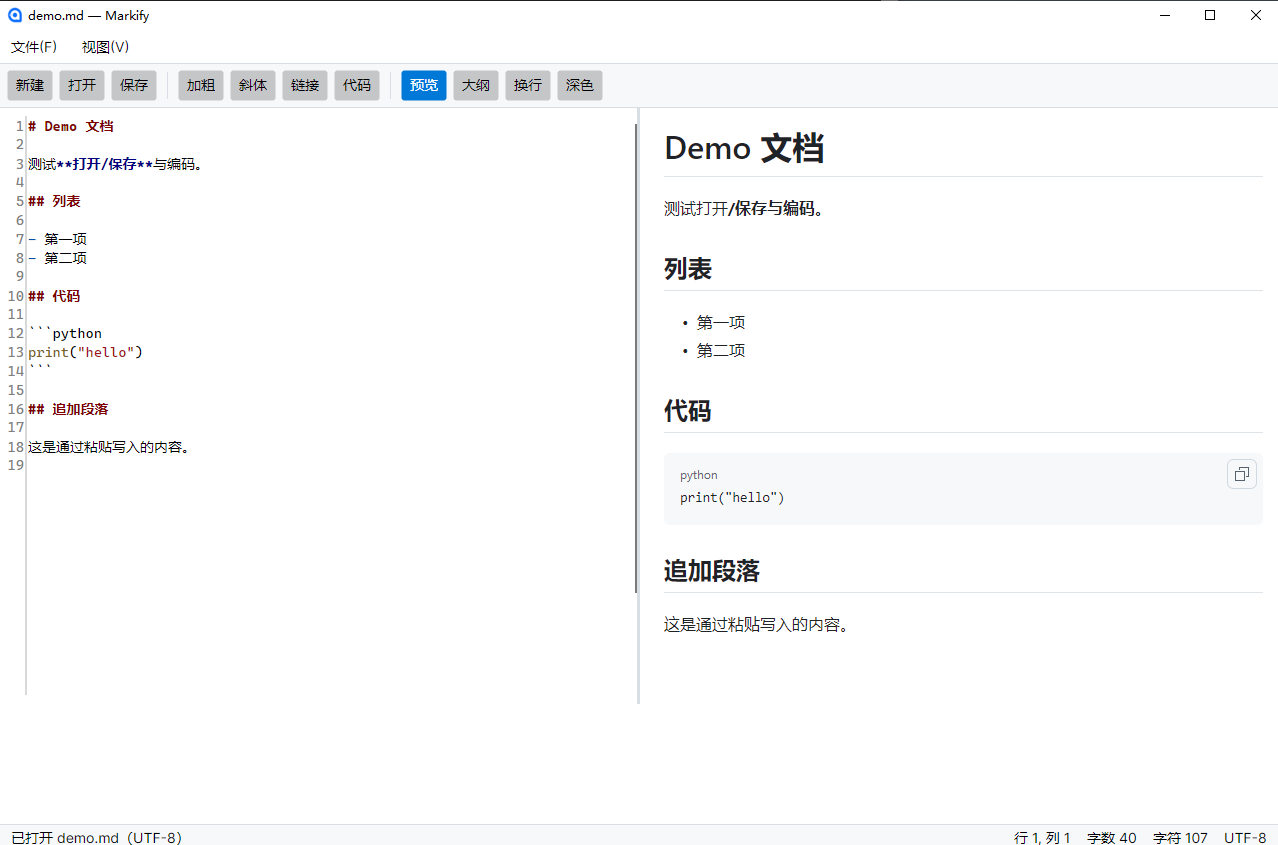
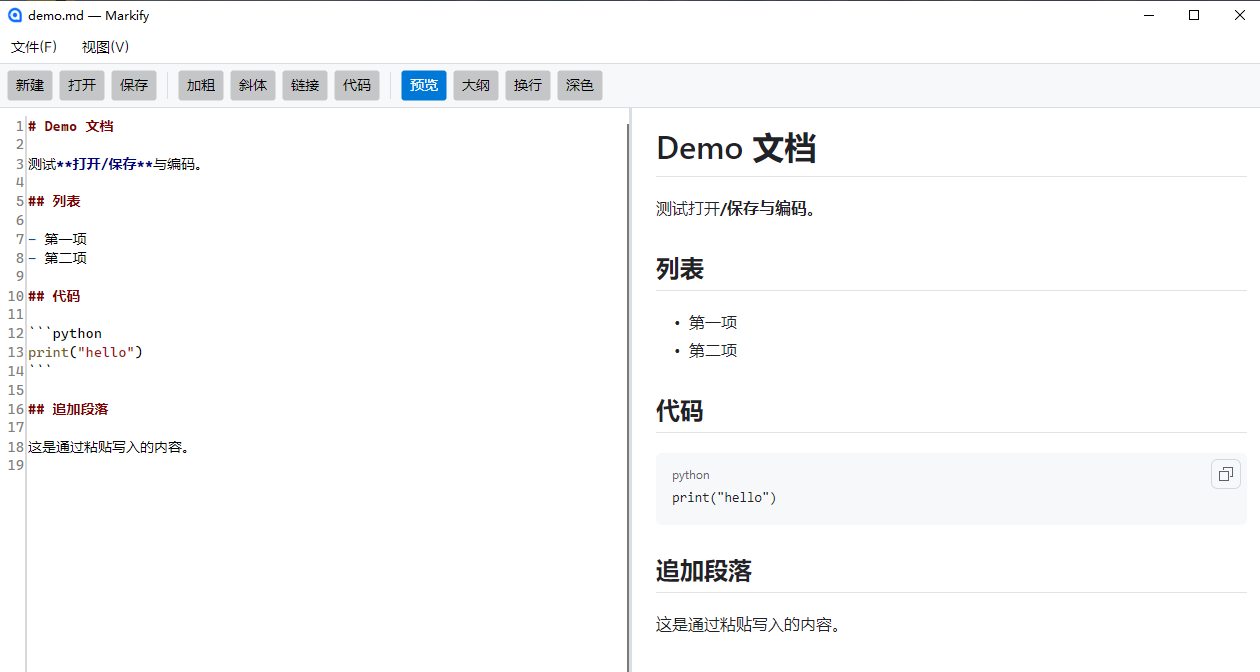
fix: Grid rows with Height=0 were stretched by a non-zero MinHeight
Left/right split mode showed a 120px blank band under the editor and preview.
MinHeight takes precedence over Height in Grid layout, so the preview row stayed
120px tall even though its Height was set to 0 and it held no visible content.

ApplyPaneLayout now ties MinHeight to the same condition as the track height,
and the initial XAML definitions set MinHeight="0" explicitly so no blank band
appears before the first layout pass.

Also drop a meaningless ternary in the same block (vertical ? 120 : 120).

Verified all three modes with screenshots: vertical split, horizontal split, and
preview hidden (editor fills the full width and height in each). Self-test still
9/9. Refresh docs/screenshot.png.

Document as B3 in docs/pitfalls-and-practices.md, since "fixed-width blank band"
is a common Grid symptom worth recognising, and renumber the following B
sections.

diff --git a/src/Markify/Views/MainWindow.axaml.cs b/src/Markify/Views/MainWindow.axaml.cs
@@ -216,14 +216,18 @@ public partial class MainWindow : Window, IDocumentDialogService
 
         rows[0] = new RowDefinition(new GridLength(1, GridUnitType.Star))
         {
-            MinHeight = vertical ? 120 : 120,
+            // 编辑器行：上下分栏时才需要最小高度限制；左右分栏时它独占整行，不受影响。
+            MinHeight = 120,
         };
         rows[1] = new RowDefinition(
             new GridLength(!vertical && showPreview ? 1 : 0, GridUnitType.Pixel));
         rows[2] = new RowDefinition(
             !vertical && showPreview ? new GridLength(1, GridUnitType.Star) : new GridLength(0))
         {
-            MinHeight = 120,
+            // 预览行的最小高度必须跟随可见性。
+            // Grid 的行即使 Height 为 0，只要 MinHeight > 0 仍会被撑开——
+            // 之前无条件写 120，导致左右分栏时底部多出一条 120px 的空白。
+            MinHeight = !vertical && showPreview ? 120 : 0,
         };
 
         if (vertical)

diff --git a/docs/pitfalls-and-practices.md b/docs/pitfalls-and-practices.md
@@ -178,7 +178,56 @@ Loaded += (_, _) => ApplyPaneLayout();
 
 ---
 
-### B3. 主题切换要分别处理「界面」和「编辑器」
+### B3. `Height=0` 的 Grid 行/列会被 `MinHeight`/`MinWidth` 撑开
+
+**现象** 🔬 实测
+
+左右分栏时，编辑器与预览下方多出一条 **120px 的空白带**，且随窗口宽度整幅延伸。
+
+**根因**
+
+```csharp
+rows[2] = new RowDefinition(new GridLength(0))   // Height = 0 ✓
+{
+    MinHeight = 120,                              // ✗ 但最小高度是 120
+};
+```
+
+Grid 布局里 **`MinHeight` 的优先级高于 `Height`**。即使把高度设成 0，只要 `MinHeight > 0`，这一行仍会占据 120px。
+
+同一个方法里还写过一个无效的三元表达式，它没有暴露问题，但说明这段逻辑没被认真检查：
+
+```csharp
+MinHeight = vertical ? 120 : 120,   // 两个分支相同，等于常数
+```
+
+**解法**
+
+`MinHeight` 必须和该轨道的可见性/存在性保持一致：
+
+```csharp
+rows[2] = new RowDefinition(
+    !vertical && showPreview ? new GridLength(1, GridUnitType.Star) : new GridLength(0))
+{
+    MinHeight = !vertical && showPreview ? 120 : 0,   // 一起归零
+};
+```
+
+**XAML 里的初始定义也要同步**，否则 `ApplyPaneLayout()` 还没来得及执行时同样会显示空白：
+
+```xml
+<RowDefinition Height="*" MinHeight="120" />
+<RowDefinition Height="0" MinHeight="0" />   <!-- 不能省 MinHeight="0" -->
+<RowDefinition Height="0" MinHeight="0" />
+```
+
+**排查手法**：空白带如果是**单色、等宽、位置固定**，优先怀疑某个**空轨道被最小尺寸撑开**，而不是内边距或对齐问题。用 DevTools 的可视树选中那一行看实际尺寸最快。
+
+**同类陷阱**：`MinWidth` / `MaxHeight` / `GridSplitter` 所在的像素轨道、以及 `Width=0` 但 `MinWidth>0` 的列，都是同一个模式。
+
+---
+
+### B4. 主题切换要分别处理「界面」和「编辑器」
 
 **现象** 🔬 实测
 
@@ -203,7 +252,7 @@ private void ApplyEditorTheme(bool dark)
 
 ---
 
-### B4. 自定义 `Window` 的关闭确认里不能直接 `Close()`
+### B5. 自定义 `Window` 的关闭确认里不能直接 `Close()`
 
 **现象** ⚠ 推断（按此写法会重入，已在实现中规避）
 
@@ -797,6 +846,7 @@ assert($current -eq 'Sentinel.TestHandler')
 | 控件找不到了 | `control.GetVisualDescendants().GroupBy(x => x.GetType().Name)` 打印类型直方图 |
 | 事件没触发 | 在回调里先写一行日志到文件（WinExe 无控制台，`Console` 不可见） |
 | 布局不生效 | 检查是不是只改了 `IsVisible` 而没改 Grid 轨道；确认有"初始应用"入口 |
+| 底部/右侧多出固定宽度空白 | 某个 `Height=0` 的轨道仍带 `MinHeight>0`，Grid 会按最小尺寸撑开（B3） |
 | 滚动不同步 | 分别打印两侧的 `Offset / Extent / Viewport`，先确认 ratio 不是恒 0 |
 | AOT 崩溃 | 先手工跑 `--selftest`；再确认 `Assembly.Location` 是否为空（是否真 AOT） |
 | 安装包启动崩 | 检查 `{app}` 下原生库是否齐全（缺 Skia 必崩） |
